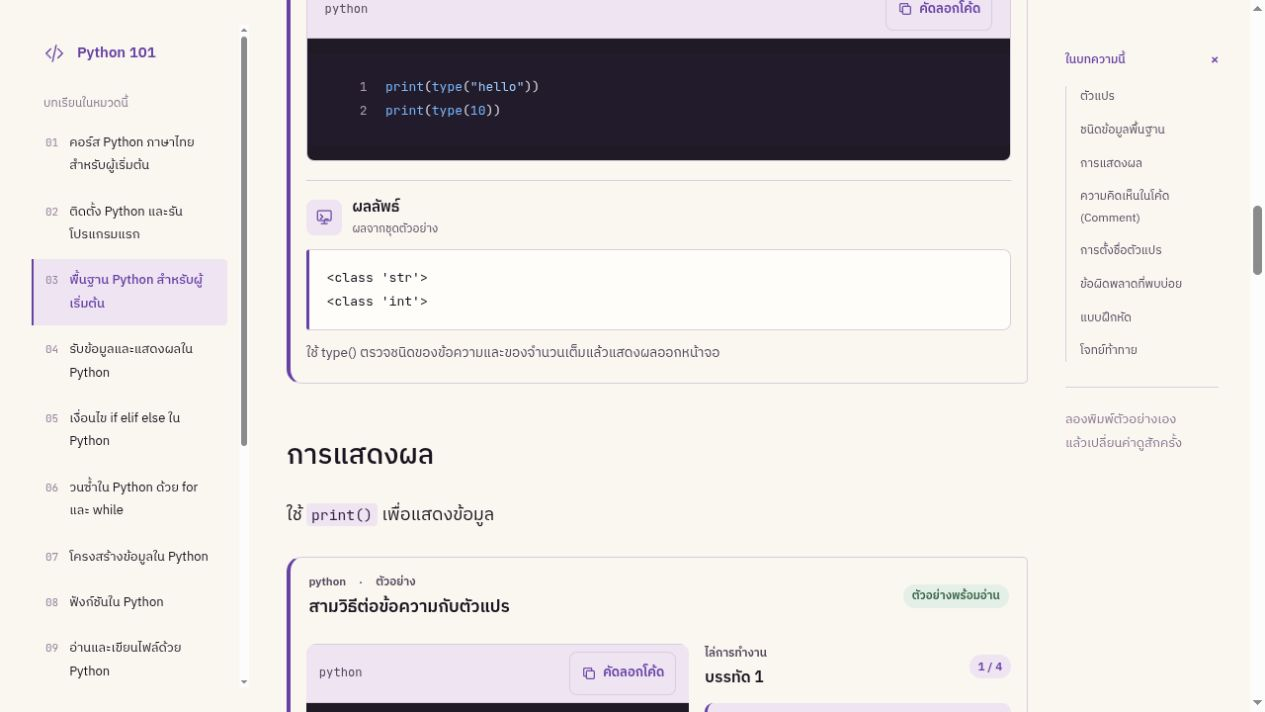
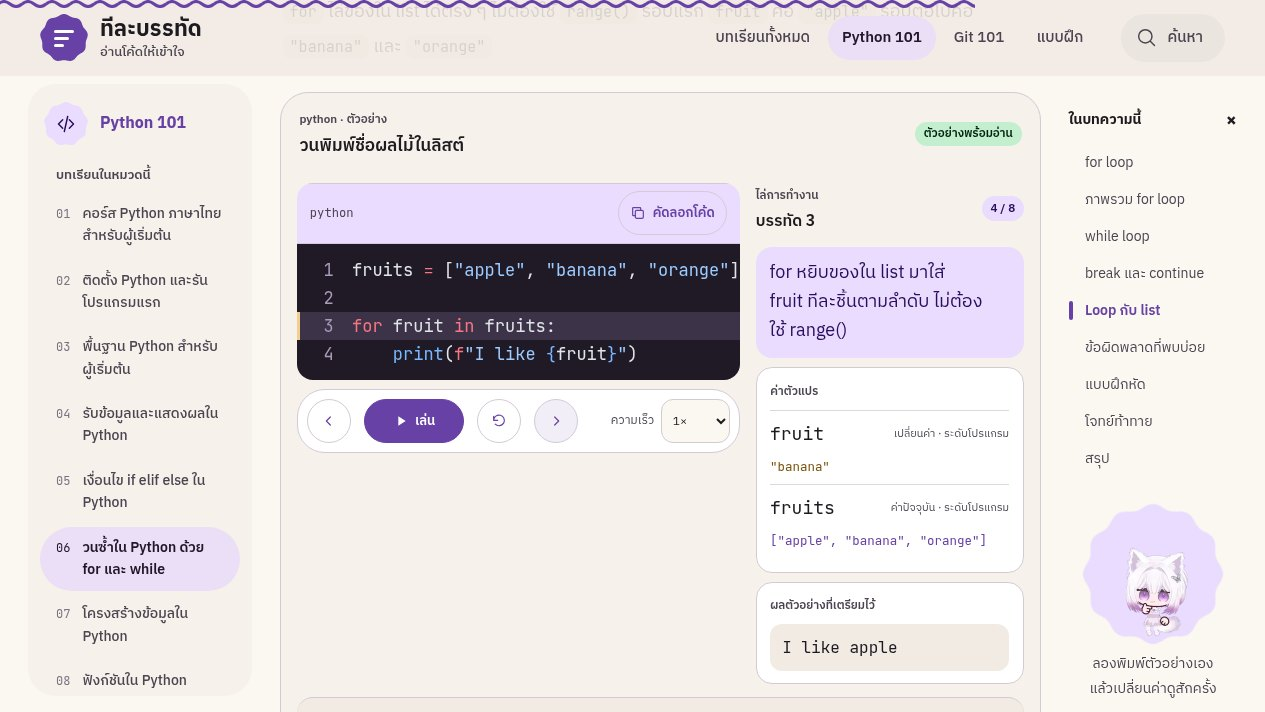
docs: refresh README for the expressive redesign
New home and step-player screenshots captured at 1265x712 from the
current site. The feature list covers beginner lessons, the pinned step
player, Flow step diagrams and Mashiro's quiz reactions, and a short
section explains the M3 Expressive look, Swiftify-derived motion and the
reduced-motion behavior. Links point to the authoring guide and the
Humanizer provenance.

diff --git a/README.md b/README.md
@@ -12,28 +12,31 @@
   <img alt="Content: Thai" src="https://img.shields.io/badge/content-Thai-6741a5?style=flat-square" />
 </p>
 
-![Teelabandat home page showing the Python and Git table of contents and the Mashiro mascot](docs/assets/home-preview.jpg)
+![Teelabandat home page with the purple "บรรทัด" headline pill, Mashiro on a rotating scalloped shape, and a one-line code card](docs/assets/home-preview.jpg)
 
 ## Read it, try it, move on
 
-- **27 lessons** across Python and Git, with **109 code examples**
-- **Examples short enough to fit one box**, with dark code panels separated from light output panels
-- **Step-by-step execution**: the line being run, the variable values, and the output at each point
-- **Editable values** in the examples that provide an input field, running Python in the browser
-- **Autoplay, pause, or slow down** to whatever pace suits you
-- **73 Python exercises** with answers and explanations
-- Search in Thai or by command name, on mobile or desktop
+- 27 lessons across Python and Git, written for people who have never programmed, with 109 annotated code examples
+- A step player for longer examples: it highlights the running line and shows variable values and output at each step, and the controls stay put while you step
+- Step diagrams in the lessons for sequences like add, commit and push, or try, except and continue
+- Editable values in examples that offer an input field, with Python running in the browser
+- 73 Python exercises with hints and worked reasoning; Mashiro reacts to right and wrong answers
+- Search in Thai or by command name, on phones or desktops
 
-No account is required. Exercise answers are held in page memory and disappear on refresh. Learning progress is not stored.
+No account is required. Exercise answers live in page memory and disappear on refresh. Learning progress is not stored.
 
 <details>
-<summary><strong>See an example code box and its output</strong></summary>
+<summary><strong>See the step player</strong></summary>
 
-![A Python type-checking example with the code and the output shown separately](docs/assets/console-preview.jpg)
+![The fruits loop example paused at line 3, with the explanation, variable values and output beside the code](docs/assets/console-preview.jpg)
 
-Complex examples have a step player. Short examples show the output with a brief explanation, so there is nothing to click through.
+Short examples skip the player and show their output with a one-line explanation, so there is nothing to click through.
 
 </details>
+
+## How it looks and moves
+
+The interface uses Material 3 Expressive color roles and shapes built from the brand purple, on warm paper surfaces. It follows the system light or dark setting. Motion values come from the Swiftify design reference: springy hover growth, scalloped edges on hovered course tiles, a fade and short rise between pages, and section shapes that carry over from the home page to the course page. Only transform and opacity animate. With reduced motion turned on, loops stop, the animated mascot switches to a still image, and movement is replaced by fades.
 
 ## Run it locally
 
@@ -70,9 +73,9 @@ Content is separate from the interface. Add a section and its lessons, and the t
 | Code examples | `src/content/examples/` |
 | Steps, variable values, and input fields | `src/content/teaching/` |
 | Exercise bank | `src/data/python-bank.json` |
-| Mascot | `public/mascot/` |
+| Mascot stills and animations | `public/mascot/` |
 
-See [CONTENT.md](CONTENT.md) for content authoring instructions in Thai, and [DESIGN.md](DESIGN.md) for interface guidelines in English.
+See [CONTENT.md](CONTENT.md) and [docs/HOW_TO_ADD_LESSONS.md](docs/HOW_TO_ADD_LESSONS.md) for authoring instructions, and [DESIGN.md](DESIGN.md) for the interface and motion rules. Lessons can use the `Flow` component for step diagrams.
 
 <details>
 <summary><strong>Checking commands and content sources</strong></summary>
@@ -88,7 +91,7 @@ Comparison against the original Python101, Git101, and Wayo material runs only w
 
 The content is adapted from Python101, Git101, and the Wayo exercise bank, keeping the original code, commands, output, and option ordering. Examples written for debugging practice still contain their original mistakes and are labeled as such.
 
-Editing notes for Claude and Humanizer are in [docs/editorial](docs/editorial) (in Thai). Mascot sources are listed in [docs/mascot-assets.md](docs/mascot-assets.md) (in English).
+Editing notes and Humanizer provenance are in [docs/editorial](docs/editorial). Mascot sources and how the animated stickers were exported are in [docs/mascot-assets.md](docs/mascot-assets.md).
 
 </details>
 
